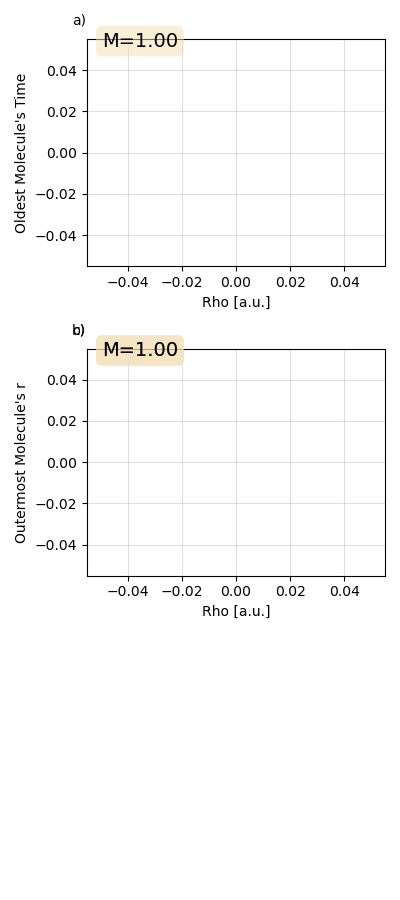
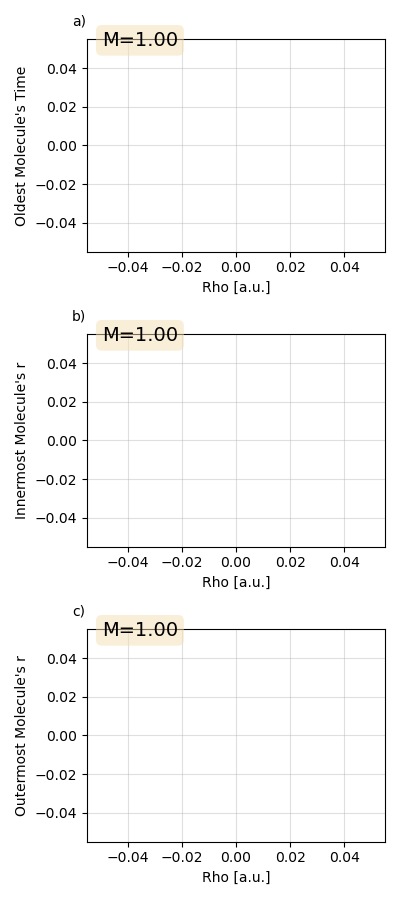
update combine meass 2

diff --git a/scripts_py/plot_density_vs_bounds.py b/scripts_py/plot_density_vs_bounds.py
@@ -98,13 +98,13 @@ for root, dirs, files in os.walk(dataDir):
         mintimes_std_arr_i = np.loadtxt(file_i, delimiter = ",", 
                                     skiprows=1,
                                     usecols = 6)
-        outermost_i, outermost_std_i = ch.std_combine(Nreps_i,
+        outermost_i, outermost_std_i = ch.combine_meass(Nreps_i,
                                                 outermosts_avg_arr_i,
                                                 outermosts_std_arr_i,)
-        innermost_i, innermost_std_i = ch.std_combine(Nreps_i,
+        innermost_i, innermost_std_i = ch.combine_meass(Nreps_i,
                                                 outermosts_avg_arr_i,
                                                 outermosts_std_arr_i,)
-        mintime_i, mintime_std_i = ch.std_combine(Nreps_i,
+        mintime_i, mintime_std_i = ch.combine_meass(Nreps_i,
                                                 outermosts_avg_arr_i,
                                                 outermosts_std_arr_i,)
         outermosts    .append(outermost_i)
@@ -125,7 +125,7 @@ for root, dirs, files in os.walk(dataDir):
         for n in range(ntypes):
             avgs_mol_n_i = mol_info_i[:,2*n]
             stds_mol_n_i = mol_info_i[:,2*n+1]
-            n_mol_n_i, std_mol_n_i = ch.std_combine(Nreps,
+            n_mol_n_i, std_mol_n_i = ch.combine_meass(Nreps,
                                                     avgs_mol_n_i,
                                                     stds_mol_n_i)
             # if the nth molecule had already been found

diff --git a/scripts_py/causets_py/causet_helpers.py b/scripts_py/causets_py/causet_helpers.py
@@ -141,10 +141,10 @@ def default_kwargs(**defaultKwargs):
     return actual_decorator
 
 
-def std_combine(Ns, mus, stds):
+def combine_meass(Ns, mus, stds):
     """
     Function combining the stds of M rounds i of Ns[i[ measurements, each 
-    having mean mus[i] and std stds[i].
+    having mean mus[i] and std stds[i]. It returns the new mean and the new std.
 
     Note: M = len(Ns) = len(ms) = len(stds).
 
@@ -161,9 +161,13 @@ def std_combine(Ns, mus, stds):
     
     Returns
     -------
+    mu  : float
+        Mean of meausurements
     std : float
         Std of the combination of all measurements.
     """
+    if not hasattr(mus, "__len__") and not hasattr(stds, "__len__"):
+        return mus, stds
     coeffs = []
     M = len(Ns)
     N = sum(Ns)
@@ -179,4 +183,4 @@ def std_combine(Ns, mus, stds):
             stdj = stds[j]
             term_mixed = Ni*Nj/(N*(N-1)) * (mui - muj)**2
             coeffs.append(term_mixed)
-    return np.sqrt(sum(coeffs))
+    return np.mean(mus), np.sqrt(sum(coeffs))
